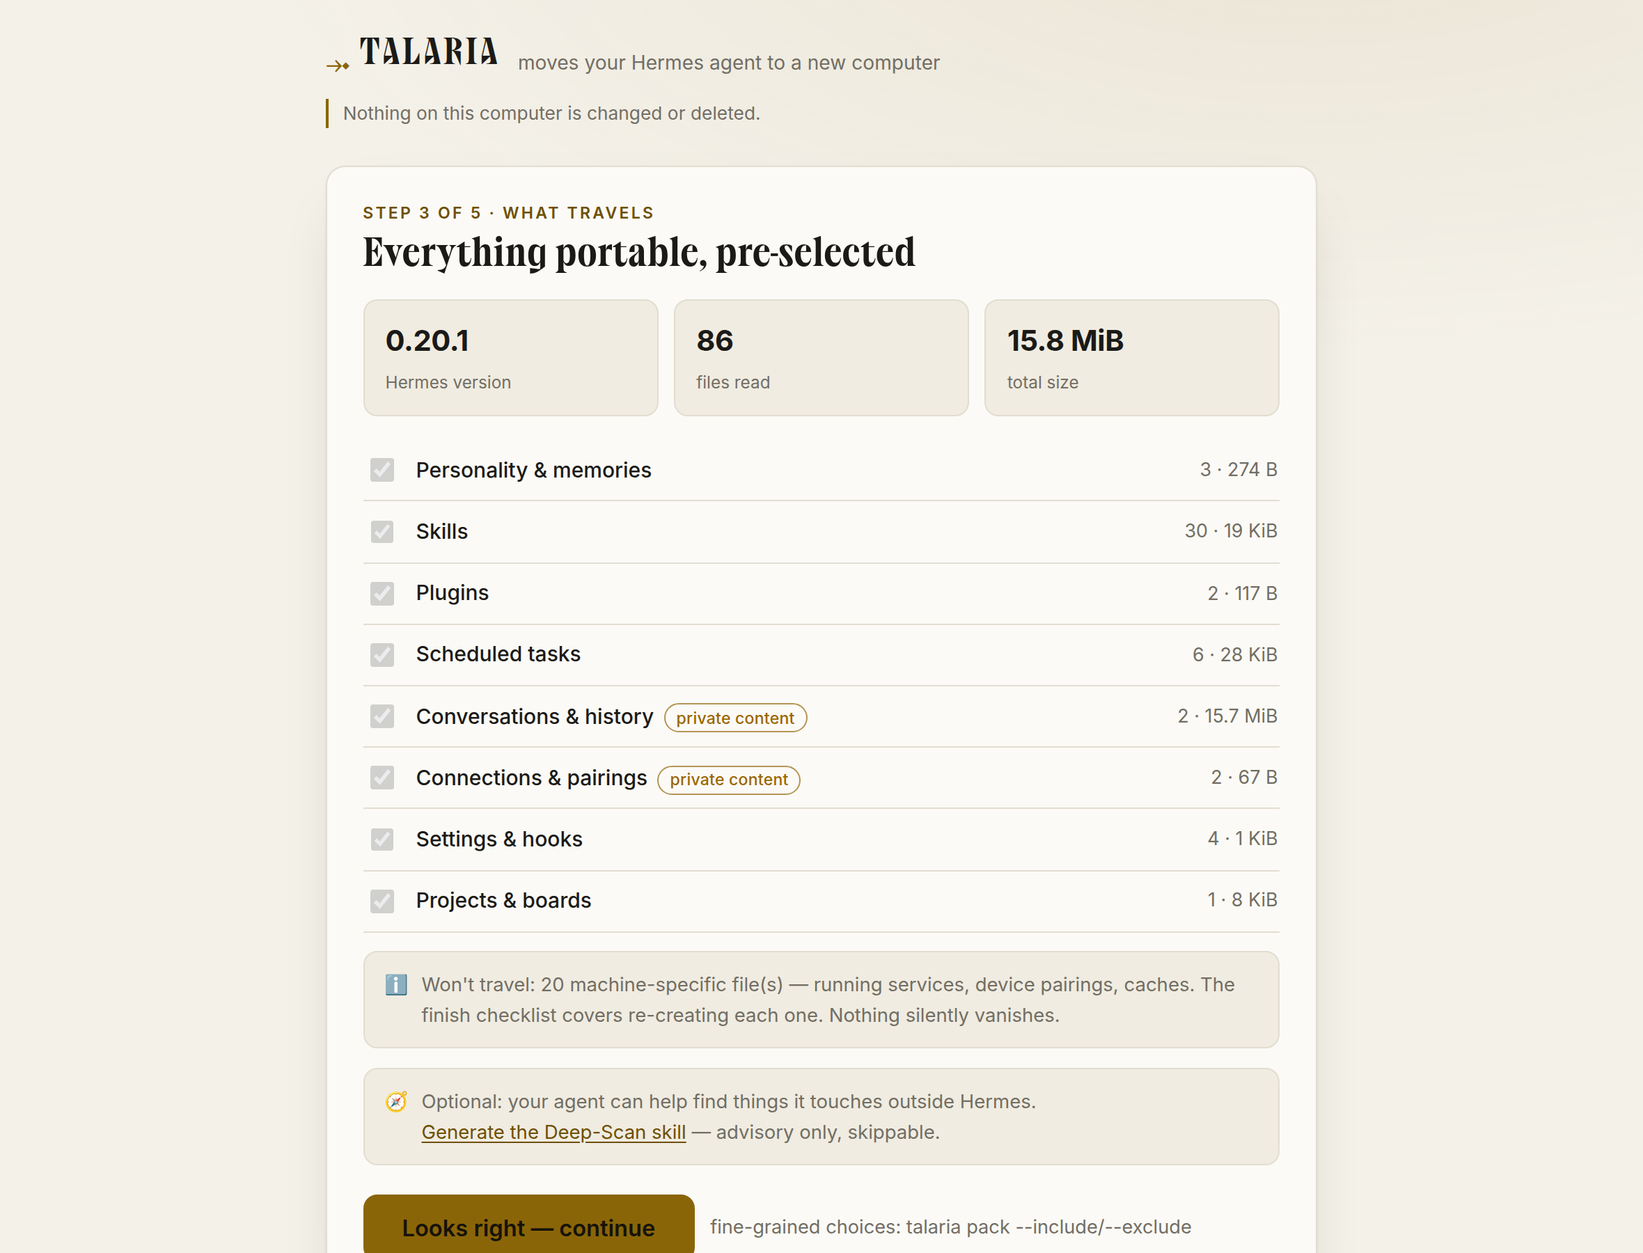
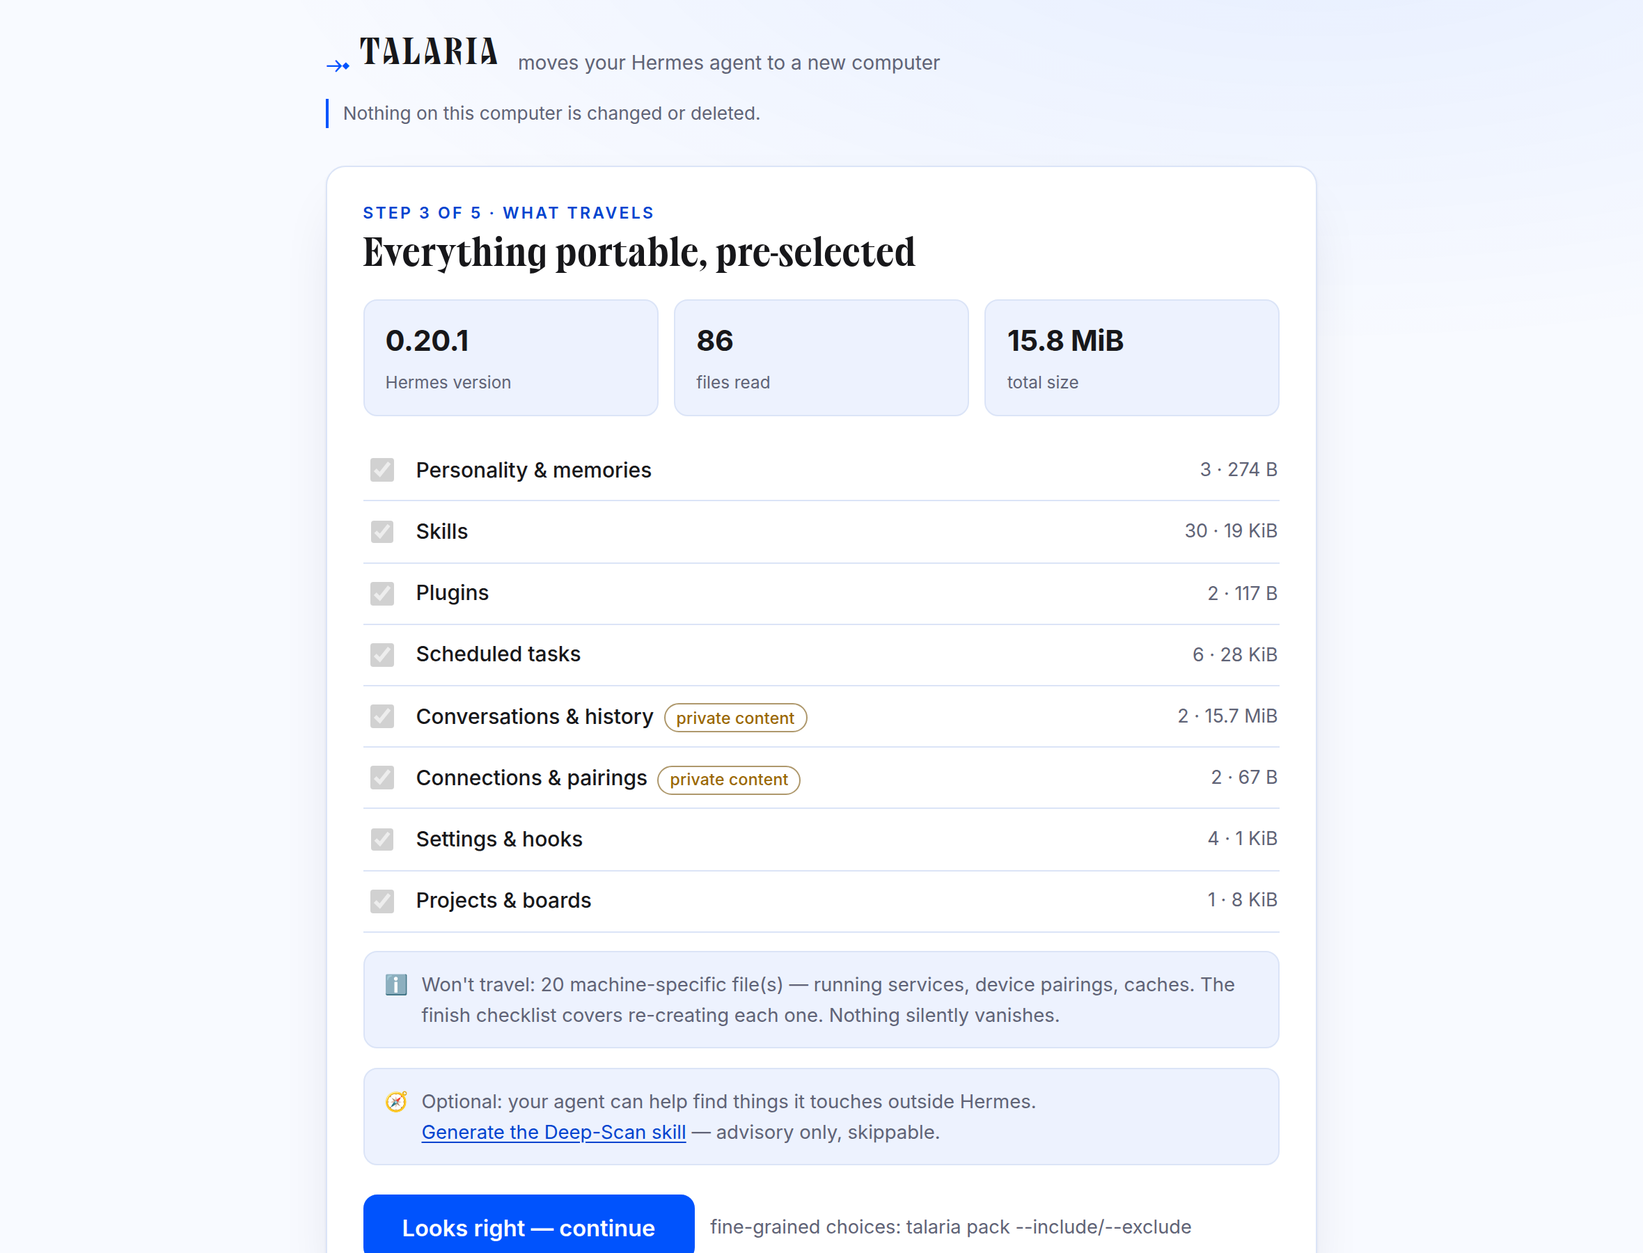
Switch palette to the Hermes desktop "nous"/Psyche blue identity
Per the user's choice of the desktop-app look over the website's gold. Adopt the
canonical desktop `nous` theme values verbatim: deep royal blue (#0d2f86) with warm
cream text (#ffe6cb) in dark — the "Psyche" look — and cool blue-white (#f8faff)
with Nous blue (#0053fd) in light. The Collapse brand wordmark and Inter/JetBrains
Mono stacks are unchanged; only the color layer moved.

- Rename the accent token family --gold* → --accent* (honest names for a blue
  accent) across app.css and report.py; add --on-accent so the primary button's
  text color is correct in both modes (white on Nous blue in light, deep blue on
  the lightened accent in dark).
- app.css + report.py palettes set to the desktop nous light/dark colors; the body
  glow and boarding pass now read blue.
- Banner recolored to the Psyche field (cream wordmark, blue flight path, the
  winged sandal kept as the single warm gold accent).
- Regenerated banner + all 14 light/dark screenshots; README platform badge → Nous
  blue; rebuilt talaria.pyz.

272 tests passing.

Claude-Session: https://claude.ai/code/session_01BUAe16RXSwzm4HUYcGpJXf

Changed region(s): [[0.1856, 0.0, 1.0, 1.0], [0.2165, 0.1556, 0.2784, 0.1867]]

diff --git a/src/talaria/gui/assets/app.css b/src/talaria/gui/assets/app.css
@@ -1,8 +1,9 @@
 /* Talaria wizard — Nous Research / Hermes Agent visual identity.
-   Warm near-black + signature gold, Inter + JetBrains Mono, flat surfaces grouped by
-   whitespace and hairlines (per the Hermes Desktop design system: flat, not boxed;
-   borderless elevation; tokens over literals). Fully self-contained: fonts are served
-   locally by the wizard, never from a CDN. */
+   The Hermes desktop "nous"/Psyche theme: deep royal blue + warm cream (dark), cool
+   blue-white + Nous blue (light); Collapse for the brand wordmark, Inter for text,
+   JetBrains Mono for code. Flat surfaces grouped by whitespace and hairlines (per the
+   Hermes Desktop design system: flat, not boxed; borderless elevation; tokens over
+   literals). Fully self-contained: fonts are served locally by the wizard, never a CDN. */
 
 @font-face { font-family: 'Inter'; font-style: normal; font-weight: 400;
   font-display: swap; src: url('/assets/fonts/Inter-400.woff2') format('woff2'); }
@@ -24,12 +25,13 @@
   font-display: swap; src: url('/assets/fonts/Collapse-Bold.woff2') format('woff2'); }
 
 :root {
-  /* Light — warm paper with the accessible bronze-gold accent (Nous docs light). */
-  --bg: #f4f1e9; --panel: #fbfaf6; --raised: #f0ece1; --fg: #1b1a17;
-  --muted: #726e64; --faint: #9a968a; --line: #e2ddd0; --line-strong: #d3cdbd;
-  --gold: #8a6508; --gold-strong: #6e4f00; --gold-soft: rgba(138,101,8,0.09);
-  --ok: #1a7f37; --warn: #9a6700; --fail: #c0392f;
-  --shadow: 0 1px 2px rgba(24,22,16,.05), 0 18px 44px -20px rgba(24,22,16,.22);
+  /* Light — the Hermes desktop "nous" theme: cool blue-white paper, Nous-blue accent. */
+  --bg: #f8faff; --panel: #ffffff; --raised: #edf2fe; --fg: #17171a;
+  --muted: #5f6376; --faint: #9aa0b4; --line: #dbe4f7; --line-strong: #c6d4f0;
+  --accent: #0053fd; --accent-strong: #0043cf; --accent-soft: rgba(0,83,253,0.07);
+  --on-accent: #ffffff;
+  --ok: #1a7f37; --warn: #9a6700; --fail: #c72e4d;
+  --shadow: 0 1px 2px rgba(13,26,64,.06), 0 18px 44px -20px rgba(13,26,64,.20);
   --radius: 14px; --radius-sm: 10px;
   --font: 'Inter', -apple-system, BlinkMacSystemFont, 'Segoe UI', Roboto, sans-serif;
   --mono: 'JetBrains Mono', 'SFMono-Regular', 'Cascadia Code', 'Fira Code',
@@ -39,12 +41,13 @@
 }
 @media (prefers-color-scheme: dark) {
   :root {
-    /* Dark — the signature Hermes Agent look: warm near-black + gold. */
-    --bg: #07070d; --panel: #0f0f18; --raised: #14142a; --fg: #e8e4dc;
-    --muted: #9a968e; --faint: #6f6c66; --line: #1e1e30; --line-strong: #2a2a40;
-    --gold: #ffd700; --gold-strong: #ffbf00; --gold-soft: rgba(255,215,0,0.10);
-    --ok: #46c26a; --warn: #d9a62e; --fail: #ef5f57;
-    --shadow: 0 1px 2px rgba(0,0,0,.5), 0 22px 60px -24px rgba(0,0,0,.75);
+    /* Dark — the signature Hermes "Psyche" look: deep royal blue + warm cream text. */
+    --bg: #0d2f86; --panel: #12378f; --raised: #1b45a4; --fg: #ffe6cb;
+    --muted: #b5c7f3; --faint: #7f97cf; --line: #3158ad; --line-strong: #3a63bd;
+    --accent: #6d9bff; --accent-strong: #8bb0ff; --accent-soft: rgba(109,155,255,0.14);
+    --on-accent: #0b2260;
+    --ok: #57cf85; --warn: #e6b24d; --fail: #ff8f84;
+    --shadow: 0 1px 2px rgba(0,0,0,.35), 0 22px 60px -24px rgba(3,10,38,.7);
     color-scheme: dark;
   }
 }
@@ -53,7 +56,7 @@
 html, body { margin: 0; height: 100%; }
 body {
   background:
-    radial-gradient(1100px 460px at 80% -8%, var(--gold-soft), transparent 70%),
+    radial-gradient(1100px 460px at 80% -8%, var(--accent-soft), transparent 70%),
     var(--bg);
   color: var(--fg);
   font: 15px/1.6 var(--font);
@@ -67,11 +70,11 @@ main { max-width: 47rem; margin: 0 auto; min-height: 100%;
 .brand { display: flex; align-items: baseline; gap: .1rem; }
 .brand b { font-family: var(--display); font-weight: 700; text-transform: uppercase;
   letter-spacing: .09em; font-size: 1.5rem; line-height: .9; color: var(--fg); }
-.brand .wing { color: var(--gold); font-size: 1.35rem; margin-right: .35rem;
+.brand .wing { color: var(--accent); font-size: 1.35rem; margin-right: .35rem;
   align-self: center; }
 .brand .tag { color: var(--muted); font-weight: 400; margin-left: .7rem; font-size: .88rem;
   letter-spacing: 0; align-self: center; }
-.promises { color: var(--muted); font-size: .82rem; border-left: 2px solid var(--gold);
+.promises { color: var(--muted); font-size: .82rem; border-left: 2px solid var(--accent);
   padding-left: .65rem; letter-spacing: .002em; }
 
 .screen { flex: 1; }
@@ -86,27 +89,27 @@ h2 { font-size: 1rem; font-weight: 600; margin: 1.2rem 0 .55rem; letter-spacing:
 p { margin: .4rem 0; }
 .muted { color: var(--muted); }
 .small { font-size: .85rem; }
-.step-label { color: var(--gold-strong); font-weight: 600; font-size: .72rem;
+.step-label { color: var(--accent-strong); font-weight: 600; font-size: .72rem;
   text-transform: uppercase; letter-spacing: .14em; margin-bottom: .45rem; }
-@media (prefers-color-scheme: dark) { .step-label { color: var(--gold); } }
+@media (prefers-color-scheme: dark) { .step-label { color: var(--accent); } }
 
-/* buttons — one primary (gold), one quiet fill; flush link variant */
+/* buttons — one primary (accent), one quiet fill; flush link variant */
 .btn { appearance: none; font-family: inherit; border: 1px solid var(--line-strong);
   background: var(--raised); color: var(--fg); border-radius: var(--radius-sm);
   padding: .6rem 1.15rem; font-size: .95rem; font-weight: 500; cursor: pointer;
   transition: transform .06s ease, background .15s ease, border-color .15s ease; }
-.btn:hover { border-color: var(--gold); }
+.btn:hover { border-color: var(--accent); }
 .btn:active { transform: translateY(1px); }
-.btn.primary { background: var(--gold); border-color: var(--gold); color: #16130a;
+.btn.primary { background: var(--accent); border-color: var(--accent); color: var(--on-accent);
   font-weight: 600; }
-.btn.primary:hover { background: var(--gold-strong); border-color: var(--gold-strong); }
+.btn.primary:hover { background: var(--accent-strong); border-color: var(--accent-strong); }
 .btn.big { padding: .82rem 1.7rem; font-size: 1.02rem; }
 .btn[disabled] { opacity: .45; cursor: default; }
 .btn-row { display: flex; gap: .7rem; margin-top: 1.3rem; flex-wrap: wrap; align-items: center; }
-.linkish { background: none; border: none; color: var(--gold-strong); cursor: pointer;
+.linkish { background: none; border: none; color: var(--accent-strong); cursor: pointer;
   text-decoration: underline; text-underline-offset: 2px; font-size: .84rem;
   padding: 0; font-family: inherit; }
-@media (prefers-color-scheme: dark) { .linkish { color: var(--gold); } }
+@media (prefers-color-scheme: dark) { .linkish { color: var(--accent); } }
 
 /* category rows — grouped by hairlines, no nested boxes */
 .cat-row { display: flex; align-items: center; gap: .8rem; padding: .6rem .1rem;
@@ -115,7 +118,7 @@ p { margin: .4rem 0; }
 .cat-row .name { flex: 1; font-weight: 500; }
 .cat-row .meta { color: var(--muted); font-size: .84rem; white-space: nowrap;
   font-variant-numeric: tabular-nums; }
-.cat-row input[type=checkbox] { width: 1.05rem; height: 1.05rem; accent-color: var(--gold); }
+.cat-row input[type=checkbox] { width: 1.05rem; height: 1.05rem; accent-color: var(--accent); }
 .badge { display: inline-block; border: 1px solid var(--line-strong); border-radius: 999px;
   padding: .02rem .5rem; font-size: .72rem; color: var(--muted); margin-left: .45rem;
   letter-spacing: .01em; }
@@ -135,8 +138,8 @@ p { margin: .4rem 0; }
 .choice { display: flex; gap: .8rem; align-items: flex-start; background: var(--raised);
   border: 1px solid var(--line); border-radius: var(--radius-sm); padding: .95rem 1.05rem;
   margin: .6rem 0; cursor: pointer; transition: border-color .15s ease, background .15s ease; }
-.choice.selected { border-color: var(--gold); background: var(--gold-soft); }
-.choice input { margin-top: .28rem; accent-color: var(--gold); }
+.choice.selected { border-color: var(--accent); background: var(--accent-soft); }
+.choice input { margin-top: .28rem; accent-color: var(--accent); }
 .choice .body { flex: 1; }
 .choice b { display: block; font-weight: 600; margin-bottom: .1rem; }
 
@@ -147,15 +150,15 @@ p { margin: .4rem 0; }
 .gate .mark { width: 1.15rem; text-align: center; font-weight: 700; }
 .gate.ok .mark { color: var(--ok); } .gate.warn .mark { color: var(--warn); }
 .gate.refuse .mark, .gate.fail .mark { color: var(--fail); }
-.gate.consent .mark { color: var(--gold-strong); }
-@media (prefers-color-scheme: dark) { .gate.consent .mark { color: var(--gold); } }
+.gate.consent .mark { color: var(--accent-strong); }
+@media (prefers-color-scheme: dark) { .gate.consent .mark { color: var(--accent); } }
 .gate .fix { color: var(--muted); font-size: .84rem; display: block; margin-top: .1rem; }
 
 /* checklist cards (finish) */
 .check-card { display: flex; gap: .8rem; align-items: flex-start; padding: .75rem .1rem;
   border-bottom: 1px solid var(--line); }
 .check-card:last-child { border-bottom: none; }
-.check-card input[type=checkbox] { margin-top: .3rem; accent-color: var(--gold); }
+.check-card input[type=checkbox] { margin-top: .3rem; accent-color: var(--accent); }
 .check-card .body { flex: 1; }
 code, .check-card code { font-family: var(--mono); background: var(--raised);
   border: 1px solid var(--line); border-radius: 6px; padding: .08rem .4rem;
@@ -164,12 +167,12 @@ code, .check-card code { font-family: var(--mono); background: var(--raised);
 .check-card input[type=password], .check-card input[type=text] { flex: 1;
   background: var(--bg); color: var(--fg); border: 1px solid var(--line-strong);
   border-radius: 8px; padding: .48rem .65rem; font-family: inherit; }
-.check-card input:focus, .choice:focus-within { outline: 2px solid var(--gold-soft);
+.check-card input:focus, .choice:focus-within { outline: 2px solid var(--accent-soft);
   outline-offset: 1px; }
 
-/* boarding pass — the one celebratory surface, gold-dashed */
-.boarding { border: 1px dashed var(--gold); border-radius: var(--radius);
-  padding: 1.3rem 1.5rem; background: var(--gold-soft); box-shadow: var(--shadow); }
+/* boarding pass — the one celebratory surface, accent-dashed */
+.boarding { border: 1px dashed var(--accent); border-radius: var(--radius);
+  padding: 1.3rem 1.5rem; background: var(--accent-soft); box-shadow: var(--shadow); }
 .boarding h1 { margin-top: 0; }
 .boarding .row { display: flex; justify-content: space-between; gap: 1rem; padding: .2rem 0; }
 .boarding .row span:first-child { color: var(--muted); }
@@ -181,9 +184,9 @@ code, .check-card code { font-family: var(--mono); background: var(--raised);
 .log-line { color: var(--muted); font-size: .84rem; white-space: nowrap; overflow: hidden;
   text-overflow: ellipsis; font-family: var(--mono); font-variant-numeric: tabular-nums; }
 progress { width: 100%; height: 5px; margin-top: .45rem; border: none;
-  border-radius: 3px; background: var(--line); accent-color: var(--gold); }
+  border-radius: 3px; background: var(--line); accent-color: var(--accent); }
 progress::-webkit-progress-bar { background: var(--line); border-radius: 3px; }
-progress::-webkit-progress-value { background: var(--gold); border-radius: 3px; }
+progress::-webkit-progress-value { background: var(--accent); border-radius: 3px; }
 
 .foot { display: flex; align-items: center; color: var(--faint); font-size: .76rem;
   padding-top: .85rem; }

diff --git a/scripts/make_banner.py b/scripts/make_banner.py
@@ -2,9 +2,10 @@
 """Render the Talaria hero banner (SVG → PNG) with the bundled Chromium.
 
 Produces docs/img/banner.png (1280×320 @2x). Pure local render, no network.
-The wordmark is set in Collapse — the Nous Research brand face — bold, uppercase
-and wide-tracked, exactly as the Hermes Agent hero uses it. Fonts are embedded as
-base64 so the render is self-contained and reproducible.
+Palette: the Hermes desktop "nous"/Psyche identity — deep royal blue with warm
+cream. The wordmark is set in Collapse (the Nous brand face) bold, uppercase and
+wide-tracked, exactly as the Hermes hero uses it. Fonts are embedded as base64 so
+the render is self-contained and reproducible.
 """
 
 from __future__ import annotations
@@ -38,17 +39,17 @@ SVG = """
 <svg xmlns="http://www.w3.org/2000/svg" width="1280" height="320" viewBox="0 0 1280 320">
   <defs>
     <linearGradient id="bg" x1="0" y1="0" x2="1" y2="1">
-      <stop offset="0"   stop-color="#07070d"/>
-      <stop offset="0.6" stop-color="#0b0b14"/>
-      <stop offset="1"   stop-color="#0f0f18"/>
+      <stop offset="0"   stop-color="#0d2f86"/>
+      <stop offset="0.55" stop-color="#0b2a78"/>
+      <stop offset="1"   stop-color="#123a92"/>
     </linearGradient>
     <linearGradient id="wing" x1="0" y1="0" x2="1" y2="1">
-      <stop offset="0" stop-color="#ffe14d"/>
-      <stop offset="1" stop-color="#e6a700"/>
+      <stop offset="0" stop-color="#ffe6cb"/>
+      <stop offset="1" stop-color="#e6b877"/>
     </linearGradient>
     <radialGradient id="glow" cx="0.5" cy="0.4" r="0.6">
-      <stop offset="0" stop-color="#ffd700" stop-opacity="0.24"/>
-      <stop offset="1" stop-color="#ffd700" stop-opacity="0"/>
+      <stop offset="0" stop-color="#6d9bff" stop-opacity="0.30"/>
+      <stop offset="1" stop-color="#6d9bff" stop-opacity="0"/>
     </radialGradient>
     <filter id="soft"><feGaussianBlur stdDeviation="0.5"/></filter>
   </defs>
@@ -57,34 +58,34 @@ SVG = """
   <rect width="1280" height="320" fill="url(#glow)"/>
 
   <!-- dotted flight path: old machine -> new machine -->
-  <path d="M 250 236 C 470 236, 520 156, 760 156" stroke="#ffd700" stroke-width="2.25"
-        stroke-dasharray="1.5 11" stroke-linecap="round" fill="none" opacity="0.6"/>
-  <circle cx="250" cy="236" r="5.5" fill="#3a3520"/>
-  <circle cx="760" cy="156" r="5.5" fill="#ffd700"/>
+  <path d="M 250 236 C 470 236, 520 156, 760 156" stroke="#6d9bff" stroke-width="2.25"
+        stroke-dasharray="1.5 11" stroke-linecap="round" fill="none" opacity="0.8"/>
+  <circle cx="250" cy="236" r="5.5" fill="#2a4fa0"/>
+  <circle cx="760" cy="156" r="5.5" fill="#ffe6cb"/>
 
-  <!-- winged sandal glyph (talaria = Hermes' winged sandals) -->
+  <!-- winged sandal glyph (talaria = Hermes' golden winged sandals) -->
   <g transform="translate(120,116)" filter="url(#soft)">
     <path d="M8 74 q40 -14 92 -8 q-6 20 -34 24 q-30 4 -58 -16 z" fill="url(#wing)"/>
     <path d="M18 58 q34 -12 78 -7 q-5 16 -28 20 q-26 4 -50 -13 z" fill="url(#wing)" opacity="0.72"/>
     <path d="M28 44 q28 -9 62 -5 q-4 12 -22 16 q-22 3 -40 -11 z" fill="url(#wing)" opacity="0.46"/>
-    <path d="M30 78 l70 0 l-8 16 l-54 0 z" fill="#efe9d8"/>
-    <path d="M36 94 l50 0 l-4 8 l-42 0 z" fill="#9a968e"/>
+    <path d="M30 78 l70 0 l-8 16 l-54 0 z" fill="#eef3ff"/>
+    <path d="M36 94 l50 0 l-4 8 l-42 0 z" fill="#b5c7f3"/>
   </g>
 
   <text x="300" y="150" font-family="__DISPLAY__" font-size="82" font-weight="700"
-        fill="#f2efe6" letter-spacing="7" textLength="360" lengthAdjust="spacing">TALARIA</text>
+        fill="#ffe6cb" letter-spacing="7" textLength="360" lengthAdjust="spacing">TALARIA</text>
   <text x="302" y="196" font-family="__BODY__"
-        font-size="25" font-weight="500" fill="#ffd700">moves your Hermes agent to a new computer</text>
+        font-size="25" font-weight="500" fill="#8bb0ff">moves your Hermes agent to a new computer</text>
   <text x="302" y="238" font-family="__BODY__"
-        font-size="16" font-weight="400" fill="#9a968e">one file · every platform · verified · undoable</text>
+        font-size="16" font-weight="400" fill="#b5c7f3">one file · every platform · verified · undoable</text>
 
   <!-- machine glyphs -->
   <g opacity="0.95">
-    <rect x="212" y="214" width="70" height="46" rx="5" fill="none" stroke="#3f3b2a" stroke-width="2.25"/>
-    <rect x="236" y="260" width="22" height="7" rx="2" fill="#3f3b2a"/>
-    <rect x="726" y="134" width="70" height="46" rx="5" fill="none" stroke="#ffd700" stroke-width="2.25"/>
-    <rect x="750" y="180" width="22" height="7" rx="2" fill="#e6a700"/>
-    <text x="761" y="163" font-family="__BODY__" font-size="25" fill="#ffd700"
+    <rect x="212" y="214" width="70" height="46" rx="5" fill="none" stroke="#2a4fa0" stroke-width="2.25"/>
+    <rect x="236" y="260" width="22" height="7" rx="2" fill="#2a4fa0"/>
+    <rect x="726" y="134" width="70" height="46" rx="5" fill="none" stroke="#6d9bff" stroke-width="2.25"/>
+    <rect x="750" y="180" width="22" height="7" rx="2" fill="#8bb0ff"/>
+    <text x="761" y="163" font-family="__BODY__" font-size="25" fill="#ffe6cb"
           text-anchor="middle">&#10524;</text>
   </g>
 </svg>

diff --git a/src/talaria/engine/report.py b/src/talaria/engine/report.py
@@ -220,19 +220,19 @@ def render_md(data: ReportData) -> str:
 
 
 _CSS = """
-:root { --bg:#f4f1e9; --fg:#1b1a17; --muted:#726e64; --line:#e2ddd0; --card:#fbfaf6;
-        --raised:#f0ece1; --ok:#1a7f37; --warn:#9a6700; --fail:#c0392f;
-        --gold:#8a6508; --gold-soft:rgba(138,101,8,0.09); color-scheme:light; }
+:root { --bg:#f8faff; --fg:#17171a; --muted:#5f6376; --line:#dbe4f7; --card:#ffffff;
+        --raised:#edf2fe; --ok:#1a7f37; --warn:#9a6700; --fail:#c72e4d;
+        --accent:#0053fd; --accent-soft:rgba(0,83,253,0.07); color-scheme:light; }
 @media (prefers-color-scheme: dark) {
-  :root { --bg:#07070d; --fg:#e8e4dc; --muted:#9a968e; --line:#1e1e30; --card:#0f0f18;
-          --raised:#14142a; --ok:#46c26a; --warn:#d9a62e; --fail:#ef5f57;
-          --gold:#ffd700; --gold-soft:rgba(255,215,0,0.10); color-scheme:dark; } }
+  :root { --bg:#0d2f86; --fg:#ffe6cb; --muted:#b5c7f3; --line:#3158ad; --card:#12378f;
+          --raised:#1b45a4; --ok:#57cf85; --warn:#e6b24d; --fail:#ff8f84;
+          --accent:#6d9bff; --accent-soft:rgba(109,155,255,0.14); color-scheme:dark; } }
 @font-face { font-family:'Inter'; font-weight:400 700; font-display:swap;
              src:local('Inter'); }
 * { box-sizing: border-box; }
 :root { --display:'Collapse','Inter',-apple-system,BlinkMacSystemFont,"Segoe UI",sans-serif; }
 body { margin:0;
-       background:radial-gradient(1000px 420px at 82% -6%,var(--gold-soft),transparent 70%),var(--bg);
+       background:radial-gradient(1000px 420px at 82% -6%,var(--accent-soft),transparent 70%),var(--bg);
        color:var(--fg);
        font:15px/1.6 'Inter',-apple-system,BlinkMacSystemFont,"Segoe UI",Roboto,sans-serif;
        -webkit-font-smoothing:antialiased; }
@@ -241,7 +241,7 @@ header.masthead { border-bottom:1px solid var(--line); padding-bottom:1.25rem;
                   margin-bottom:2rem; }
 h1 { font-family:var(--display); font-size:1.75rem; font-weight:700; letter-spacing:.01em;
      line-height:1.1; margin:0 0 .3rem; }
-h1 .wing { color:var(--gold); font-family:'Inter',sans-serif; }
+h1 .wing { color:var(--accent); font-family:'Inter',sans-serif; }
 .sub { color:var(--muted); margin:0; }
 h2 { font-size:1.1rem; font-weight:600; margin:2.2rem 0 .8rem;
      border-bottom:1px solid var(--line); padding-bottom:.4rem; }
@@ -262,7 +262,7 @@ th { color:var(--muted); font-weight:600; }
 code { font-family:'JetBrains Mono','SFMono-Regular','Cascadia Code','DejaVu Sans Mono',monospace;
        background:var(--raised); border:1px solid var(--line); border-radius:5px;
        padding:.08rem .38rem; font-size:.84em; }
-.quote { font-style:italic; color:var(--muted); border-left:2px solid var(--gold);
+.quote { font-style:italic; color:var(--muted); border-left:2px solid var(--accent);
          padding-left:.8rem; margin:.9rem 0; }
 footer { color:var(--muted); font-size:.8rem; margin-top:3rem;
          border-top:1px solid var(--line); padding-top:1rem; }

diff --git a/README.md b/README.md
@@ -3,7 +3,7 @@
 </p>
 
 <p align="center">
-  <img src="https://img.shields.io/badge/platforms-Linux%20·%20macOS%20·%20Windows%20·%20WSL%20·%20Termux-b8860b?style=for-the-badge" alt="Platforms">
+  <img src="https://img.shields.io/badge/platforms-Linux%20·%20macOS%20·%20Windows%20·%20WSL%20·%20Termux-0053fd?style=for-the-badge" alt="Platforms">
   <img src="https://img.shields.io/badge/python-3.9%2B-3776AB?style=for-the-badge&logo=python&logoColor=white" alt="Python 3.9+">
   <img src="https://img.shields.io/badge/dependencies-zero%20(stdlib)-1a7f37?style=for-the-badge" alt="Zero dependencies">
   <img src="https://img.shields.io/badge/tests-272%20passing-1a7f37?style=for-the-badge" alt="272 tests">
